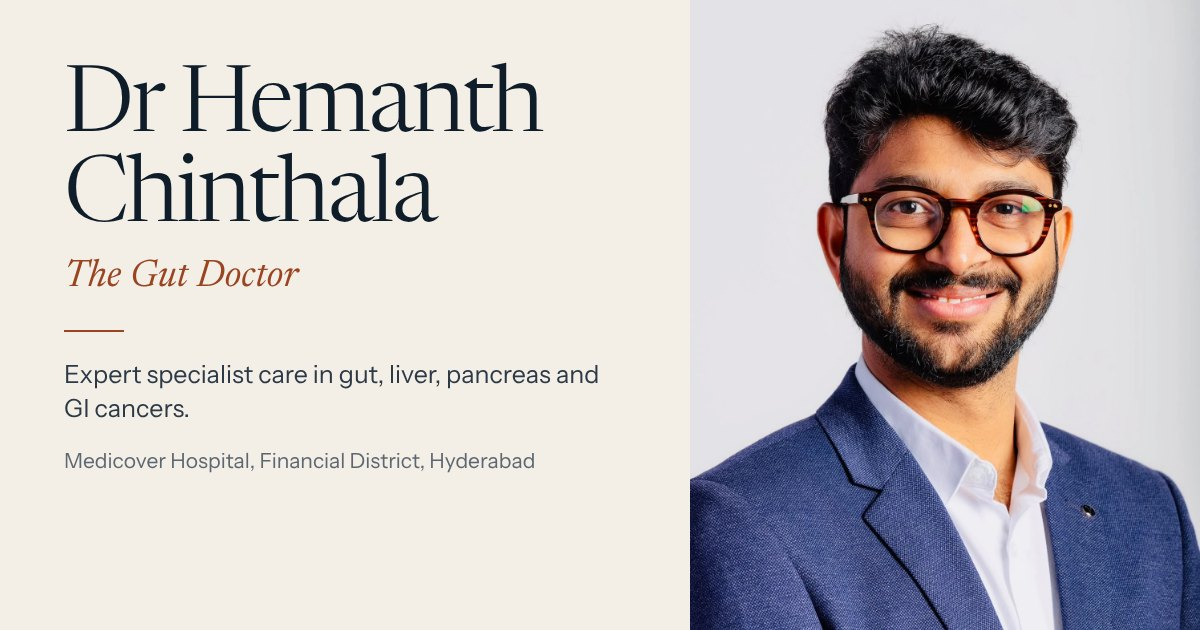
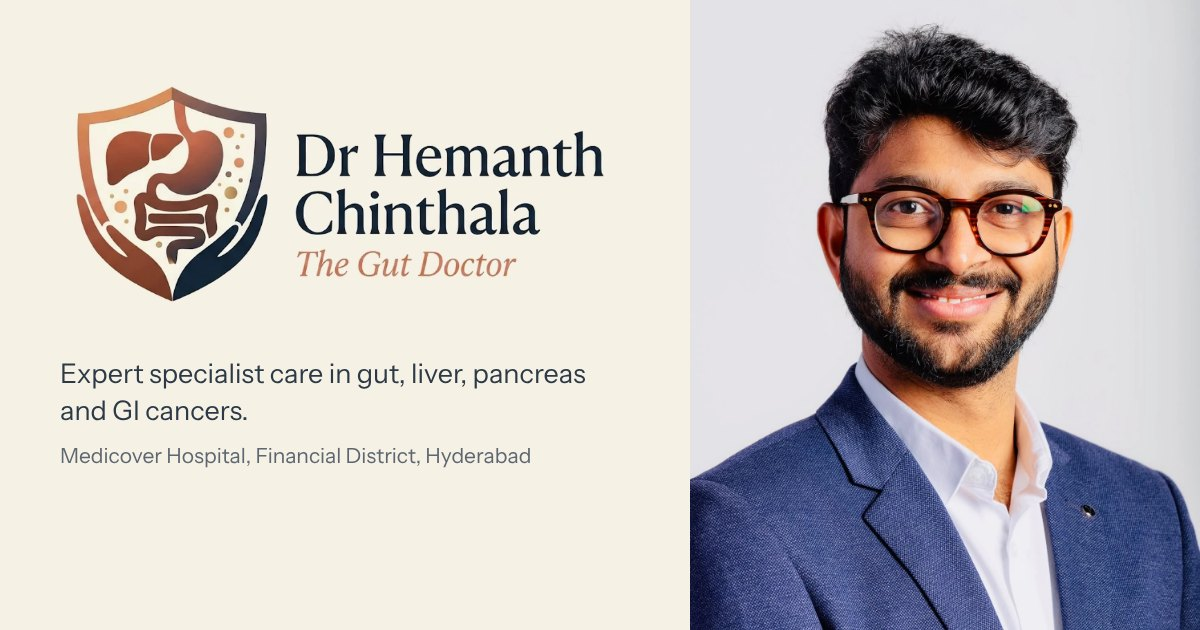
SEO markup, WhatsApp button, map, share card and new animations
- Build adds an absolute canonical URL and share image, FAQPage
  structured data from the FAQ, sitemap.xml and robots.txt.
- Floating WhatsApp button beside the booking dock (phones) or in the
  corner (desktop), hidden at the booking form.
- Location map that loads Google Maps only when asked.
- Share card rebuilt with the logo and portrait.
- Section headings rise word by word; warning-sign icons draw in, with
  a slow pulse on the same-day signs; a line and dot run through the
  first-visit steps. Step headings now align across the row.

Claude-Session: https://claude.ai/code/session_01YWb2kGA3E7CmJhSn1PJtSX

diff --git a/index.html b/index.html
@@ -664,47 +664,50 @@
         <p class="section__intro">Any one of these is a good reason to get checked. The ones marked "Same day" need prompt attention.</p>
         <ul class="signs__grid" role="list">
           <li class="sign">
-            
+            <span class="sign__ic" aria-hidden="true"><svg viewBox="0 0 24 24" focusable="false"><path pathLength="1" d="M12 3c1 3.5 4.5 5 4.5 9.2A4.5 4.5 0 0 1 12 17a4.5 4.5 0 0 1-4.5-4.8c0-2 1.2-3.2 2-4.2.3 1.6 1.1 2.4 2 2.6C11 8.6 11 5.8 12 3Z"/><path pathLength="1" d="M8 21h8"/></svg></span>
             <p class="sign__title">Heartburn or acidity more than twice a week</p>
             <p class="sign__note">Especially if antacids no longer help, or it wakes you at night.</p>
           </li>
           <li class="sign">
-            
+            <span class="sign__ic" aria-hidden="true"><svg viewBox="0 0 24 24" focusable="false"><path pathLength="1" d="M9 3v7a3 3 0 0 0 6 0V3"/><path pathLength="1" d="M12 14v7"/><path pathLength="1" d="M9 18l3 3 3-3"/></svg></span>
             <p class="sign__title">Difficulty or pain when swallowing</p>
             <p class="sign__note">Food that sticks on the way down should always be checked.</p>
           </li>
           <li class="sign">
-            
+            <span class="sign__ic" aria-hidden="true"><svg viewBox="0 0 24 24" focusable="false"><path pathLength="1" d="M12 4a8 8 0 1 1 0 16 8 8 0 0 1 0-16Z"/><path pathLength="1" d="M7.5 12c1.5-1.6 3-1.6 4.5 0s3 1.6 4.5 0"/></svg></span>
             <p class="sign__title">Bloating, pain or a change in bowel habit</p>
             <p class="sign__note">If it lasts more than a few weeks, or simple changes do not settle it.</p>
           </li>
           <li class="sign sign--urgent">
+            <span class="sign__ic" aria-hidden="true"><svg viewBox="0 0 24 24" focusable="false"><path pathLength="1" d="M12 3s6 6.6 6 11a6 6 0 0 1-12 0c0-4.4 6-11 6-11Z"/></svg></span>
             <p class="sign__flag">Same day</p>
             <p class="sign__title">Blood in the stool, or black, tar-like stools</p>
             <p class="sign__note">Black stools can mean bleeding higher up in the gut.</p>
           </li>
           <li class="sign sign--urgent">
+            <span class="sign__ic" aria-hidden="true"><svg viewBox="0 0 24 24" focusable="false"><path pathLength="1" d="M5 10h11v3a5 5 0 0 1-5 5h-1a5 5 0 0 1-5-5v-3Z"/><path pathLength="1" d="M16 11h1.5a2.5 2.5 0 0 1 0 5H16"/><path pathLength="1" d="M10.5 3.5s-1.5 1.7-1.5 2.8a1.5 1.5 0 0 0 3 0c0-1.1-1.5-2.8-1.5-2.8Z"/><path pathLength="1" d="M6 21h10"/></svg></span>
             <p class="sign__flag">Same day</p>
             <p class="sign__title">Vomiting blood or material like coffee grounds</p>
             <p class="sign__note">This needs medical attention the same day.</p>
           </li>
           <li class="sign sign--urgent">
+            <span class="sign__ic" aria-hidden="true"><svg viewBox="0 0 24 24" focusable="false"><path pathLength="1" d="M2.5 12S6 6 12 6s9.5 6 9.5 6-3.5 6-9.5 6S2.5 12 2.5 12Z"/><path pathLength="1" d="M12 9a3 3 0 1 1 0 6 3 3 0 0 1 0-6Z"/></svg></span>
             <p class="sign__flag">Same day</p>
             <p class="sign__title">Yellowing of the eyes or skin</p>
             <p class="sign__note">Jaundice can come from a liver problem or a blocked bile duct.</p>
           </li>
           <li class="sign">
-            
+            <span class="sign__ic" aria-hidden="true"><svg viewBox="0 0 24 24" focusable="false"><path pathLength="1" d="M5 5h14a1 1 0 0 1 1 1v12a1 1 0 0 1-1 1H5a1 1 0 0 1-1-1V6a1 1 0 0 1 1-1Z"/><path pathLength="1" d="M8.5 11a4 4 0 0 1 7 0"/><path pathLength="1" d="M12 11l1.6-2.2"/></svg></span>
             <p class="sign__title">Weight loss or poor appetite without a reason</p>
             <p class="sign__note">Unplanned weight loss should be explained.</p>
           </li>
           <li class="sign">
-            
+            <span class="sign__ic" aria-hidden="true"><svg viewBox="0 0 24 24" focusable="false"><path pathLength="1" d="M12 3s6 6.6 6 11a6 6 0 0 1-12 0c0-4.4 6-11 6-11Z"/><path pathLength="1" d="M9.5 14.5h5"/></svg></span>
             <p class="sign__title">Iron-deficiency anaemia with no clear cause</p>
             <p class="sign__note">Slow bleeding in the gut is a common cause that people do not notice.</p>
           </li>
           <li class="sign">
-            
+            <span class="sign__ic" aria-hidden="true"><svg viewBox="0 0 24 24" focusable="false"><path pathLength="1" d="M9 5a3 3 0 1 1 0 6 3 3 0 0 1 0-6Z"/><path pathLength="1" d="M3.5 20a5.5 5.5 0 0 1 11 0"/><path pathLength="1" d="M17 7.5a2.4 2.4 0 1 1 0 4.8 2.4 2.4 0 0 1 0-4.8Z"/><path pathLength="1" d="M15.2 15a4.5 4.5 0 0 1 5.8 4.3"/></svg></span>
             <p class="sign__title">New symptoms after 50, or a family history of bowel or stomach cancer</p>
             <p class="sign__note">Screening may be advised.</p>
           </li>
@@ -716,23 +719,27 @@
     <section class="visit section" aria-labelledby="visit-h">
       <div class="wrap">
         <h2 id="visit-h" class="h-section">Your first visit</h2>
-        <ol class="steps" role="list">
+        <ol class="steps" role="list" data-steps>
           <li class="step">
+            <span class="step__bar" aria-hidden="true"><i></i><b></b></span>
             <span class="step__no data">1</span>
             <h3 class="h-small">What to bring</h3>
             <p>Earlier endoscopy or colonoscopy reports, scans and their CDs, recent blood tests, and a list of everything you take, including supplements.</p>
           </li>
           <li class="step">
+            <span class="step__bar" aria-hidden="true"><i></i><b></b></span>
             <span class="step__no data">2</span>
             <h3 class="h-small">The consultation</h3>
             <p>He goes through your symptoms, history and reports with you, then examines you. You can speak in English, Telugu, Hindi or Tamil.</p>
           </li>
           <li class="step">
+            <span class="step__bar" aria-hidden="true"><i></i><b></b></span>
             <span class="step__no data">3</span>
             <h3 class="h-small">Tests, if you need them</h3>
             <p>If you need a procedure, you will be told why, what it involves and how to prepare, including any fasting or bowel preparation.</p>
           </li>
           <li class="step">
+            <span class="step__bar" aria-hidden="true"><i></i><b></b></span>
             <span class="step__no data">4</span>
             <h3 class="h-small">A written plan</h3>
             <p>You leave with treatment, diet and lifestyle advice in writing, and a date for your follow-up.</p>
@@ -807,6 +814,14 @@
             <a class="link" href="https://www.google.com/maps/search/?api=1&amp;query=Medicover+Hospital+Financial+District+Nanakramguda+Hyderabad" target="_blank" rel="noopener">Get directions</a>
             <a class="link" href="https://www.medicoverhospitals.in/doctors/dr-hemanth-chinthala" target="_blank" rel="noopener">His Medicover profile</a>
           </p>
+
+          <figure class="map" data-map>
+            <div class="map__frame" data-map-frame>
+              <svg class="map__pin" viewBox="0 0 24 32" aria-hidden="true" focusable="false"><path d="M12 0C5.4 0 0 5.2 0 11.7 0 20.4 12 32 12 32s12-11.6 12-20.3C24 5.2 18.6 0 12 0Zm0 16.2a4.6 4.6 0 1 1 0-9.2 4.6 4.6 0 0 1 0 9.2Z"/></svg>
+              <button class="btn btn--light map__load" type="button" data-map-load>Show the hospital on a map</button>
+            </div>
+            <figcaption class="map__cap">Medicover Hospital, Financial District. The map is from Google and loads only when you ask for it.</figcaption>
+          </figure>
         </div>
 
         <form class="form" data-form novalidate>
@@ -872,5 +887,6 @@
   </footer>
 
   <a class="dock" href="#book" data-dock>Book a consultation</a>
+  <a class="wa" href="https://wa.me/917087222235?text=Hello%2C%20I%20would%20like%20to%20book%20a%20consultation%20with%20Dr%20Hemanth%20Chinthala." target="_blank" rel="noopener" aria-label="Chat on WhatsApp" data-wa><svg viewBox="0 0 32 32" aria-hidden="true" focusable="false"><path fill="currentColor" d="M16.04 3C9 3 3.3 8.66 3.3 15.65c0 2.23.59 4.41 1.71 6.33L3.2 28.8l7.03-1.83a12.8 12.8 0 0 0 5.8 1.39h.01c7.03 0 12.76-5.66 12.76-12.65C28.8 8.66 23.07 3 16.04 3Zm0 23.2h-.01a10.6 10.6 0 0 1-5.39-1.47l-.39-.23-4.17 1.09 1.11-4.04-.25-.41a10.42 10.42 0 0 1-1.62-5.6c0-5.8 4.75-10.52 10.6-10.52 2.83 0 5.49 1.1 7.49 3.09a10.43 10.43 0 0 1 3.1 7.44c0 5.81-4.75 10.53-10.47 10.53Zm5.8-7.87c-.32-.16-1.88-.92-2.17-1.03-.29-.1-.5-.16-.71.16-.21.31-.82 1.03-1 1.24-.19.21-.37.24-.69.08-.32-.16-1.34-.49-2.56-1.57a9.54 9.54 0 0 1-1.77-2.19c-.18-.32-.02-.49.14-.65.14-.14.32-.37.48-.55.16-.18.21-.31.32-.52.1-.21.05-.4-.03-.55-.08-.16-.71-1.71-.98-2.34-.26-.62-.52-.53-.71-.54h-.61c-.21 0-.55.08-.84.39-.29.31-1.1 1.07-1.1 2.62 0 1.54 1.13 3.04 1.29 3.25.16.21 2.22 3.37 5.38 4.72.75.32 1.34.52 1.8.66.76.24 1.44.2 1.99.12.61-.09 1.88-.76 2.14-1.5.27-.74.27-1.37.19-1.5-.08-.13-.29-.21-.61-.37Z"/></svg></a>
 </body>
 </html>

diff --git a/src/styles.css b/src/styles.css
@@ -54,6 +54,8 @@
   --night-rule-strong: rgba(233, 227, 215, 0.3);
   /* states */
   --error: #b3261e;
+  --whatsapp: #1fa855; /* WhatsApp green, darkened for contrast with white */
+  --whatsapp-dark: #188a45;
   --shadow: rgba(15, 29, 43, 0.5);
   --shadow-soft: rgba(15, 29, 43, 0.18);
   --shadow-tight: rgba(15, 29, 43, 0.25);
@@ -81,7 +83,8 @@ html {
   scrollbar-color: var(--ink-3) var(--paper-2);
 }
 html:not(.lenis) { scroll-behavior: smooth; }
-@media (prefers-reduced-motion: reduce) { html:not(.lenis) { scroll-behavior: auto; } }
+@media (prefers-reduced-motion: reduce) {
+  .sign--urgent .sign__ic::after { animation: none; opacity: 0; } html:not(.lenis) { scroll-behavior: auto; } }
 body {
   margin: 0;
   background: var(--paper);
@@ -158,6 +161,9 @@ abbr { text-decoration: none; }
 .btn:active::before { transform: scaleY(1); }
 .btn--small { height: 40px; padding: 0 16px; font-size: 14px; }
 .btn--full { width: 100%; }
+.btn--light { background: var(--paper); color: var(--ink); }
+@media (hover: hover) { .btn--light:hover { color: var(--paper); } }
+.btn--light:focus-visible { outline: 3px solid var(--night-accent); outline-offset: 3px; }
 
 .link {
   font-size: 15.5px; font-weight: 500;
@@ -472,7 +478,13 @@ abbr { text-decoration: none; }
 .signs { border-top: 1px solid var(--rule); }
 .signs__grid { display: grid; grid-template-columns: minmax(0, 1fr); border-top: 1px solid var(--rule-strong); }
 .sign { padding: 22px 0 24px; border-bottom: 1px solid var(--rule); }
-.sign__flag { display: inline-block; margin-bottom: 10px; padding: 3px 10px; font-size: 13.5px; font-weight: 600; color: var(--white-warm); background: var(--accent); border-radius: var(--radius); }
+.sign__ic { position: relative; display: inline-grid; vertical-align: top; place-items: center; width: 44px; height: 44px; margin-bottom: 14px; border-radius: 50%; color: var(--ink); background: var(--paper-2); }
+.sign__ic svg { width: 24px; height: 24px; fill: none; stroke: currentColor; stroke-width: 1.6; stroke-linecap: round; stroke-linejoin: round; }
+.sign--urgent .sign__ic { color: var(--white-warm); background: var(--accent); }
+/* The same-day signs pulse slowly, so they are noticed first. */
+.sign--urgent .sign__ic::after { content: ''; position: absolute; inset: 0; border-radius: 50%; border: 2px solid var(--accent); animation: sign-pulse 2.4s var(--ease-out) infinite; }
+@keyframes sign-pulse { 0% { transform: scale(1); opacity: .7; } 70%, 100% { transform: scale(1.7); opacity: 0; } }
+.sign__flag { display: inline-block; margin-left: 12px; vertical-align: 26px; margin-bottom: 10px; padding: 3px 10px; font-size: 13.5px; font-weight: 600; color: var(--white-warm); background: var(--accent); border-radius: var(--radius); }
 .sign__title { font-family: var(--serif); font-size: clamp(21px, 1.9vw, 26px); line-height: 1.22; font-weight: 400; letter-spacing: -0.01em; font-variation-settings: 'opsz' 28; }
 .sign__note { margin-top: 6px; color: var(--ink-2); font-size: 15.5px; max-width: 46ch; }
 @media (min-width: 760px) { .signs__grid { grid-template-columns: repeat(2, minmax(0, 1fr)); column-gap: 40px; } }
@@ -481,7 +493,13 @@ abbr { text-decoration: none; }
 /* ---------- first visit ---------- */
 .visit { border-top: 1px solid var(--rule); }
 .steps { display: grid; grid-template-columns: minmax(0, 1fr); }
-.step { border-top: 1px solid var(--rule-strong); padding: 20px 0 32px; display: grid; gap: 8px; }
+.step { position: relative; border-top: 1px solid var(--rule-strong); padding: 20px 0 32px; display: grid; gap: 8px; align-content: start; }
+/* Progress along the steps: a sienna line with a dot at its tip. */
+.step__bar { position: absolute; left: 0; right: 0; top: -1px; height: 2px; pointer-events: none; }
+.step__bar i { position: absolute; inset: 0; background: var(--accent); transform-origin: left; transform: scaleX(1); }
+.step__bar b { position: absolute; top: 50%; left: 100%; width: 10px; height: 10px; margin: -5px 0 0 -5px; border-radius: 50%; background: var(--accent); box-shadow: 0 0 0 4px var(--paper); opacity: 0; }
+.step__no { transition: transform .4s var(--ease-out); }
+.step.is-reached .step__no { transform: scale(1.15); transform-origin: left; }
 .step__no { font-family: var(--serif); font-size: 26px; line-height: 1; color: var(--accent); }
 .step p { color: var(--ink-2); font-size: 16px; text-wrap: pretty; }
 @media (min-width: 700px) { .steps { grid-template-columns: repeat(2, minmax(0, 1fr)); column-gap: 32px; } }
@@ -535,6 +553,17 @@ abbr { text-decoration: none; }
 .book__links { margin-top: 26px; display: flex; flex-wrap: wrap; gap: 14px 28px; }
 .book .link { text-decoration-color: var(--night-rule-strong); }
 .book .link:hover { color: var(--night-accent); }
+
+/* Location map: a placeholder until the visitor asks for the Google map. */
+.map { margin-top: 32px; }
+.map__frame { position: relative; aspect-ratio: 16 / 10; border-radius: var(--radius); overflow: hidden; display: grid; place-items: center; align-content: center; gap: 18px;
+  background-color: var(--night-2);
+  background-image: linear-gradient(var(--night-rule) 1px, transparent 1px), linear-gradient(90deg, var(--night-rule) 1px, transparent 1px),
+    linear-gradient(32deg, transparent 47%, var(--night-rule-strong) 47.5%, var(--night-rule-strong) 49%, transparent 49.5%);
+  background-size: 44px 44px, 44px 44px, 100% 100%; }
+.map__pin { width: 30px; height: 40px; fill: var(--night-accent); }
+.map__frame iframe { position: absolute; inset: 0; width: 100%; height: 100%; border: 0; }
+.map__cap { margin-top: 10px; font-size: 14px; color: var(--night-mute); }
 
 .form { background: var(--paper); color: var(--ink); padding: clamp(24px, 4vw, 44px); border-radius: var(--radius); align-self: start; }
 .form__head { font-family: var(--serif); font-size: clamp(26px, 2.6vw, 34px); font-weight: 380; letter-spacing: -0.015em; line-height: 1.1; }
@@ -594,6 +623,20 @@ abbr { text-decoration: none; }
 .dock.is-visible { transform: translateY(0); }
 @media (min-width: 640px) { .dock { display: none; } }
 
+/* WhatsApp: beside the booking dock on phones, in the corner on larger screens. */
+.wa {
+  position: fixed; right: 12px; bottom: calc(12px + env(safe-area-inset-bottom)); z-index: 41;
+  display: grid; place-items: center; width: 54px; height: 54px; border-radius: 50%;
+  background: var(--whatsapp); color: #fff; box-shadow: 0 10px 30px -10px var(--shadow);
+  transform: translateY(160%); transition: transform .5s var(--ease-out), background-color .2s;
+}
+.wa svg { width: 28px; height: 28px; }
+.wa.is-visible { transform: translateY(0); }
+.wa:hover { background: var(--whatsapp-dark); }
+.wa:focus-visible { outline: 3px solid var(--ink); outline-offset: 3px; }
+@media (max-width: 639px) { .dock { right: 76px; } }
+@media (min-width: 640px) { .wa { right: 24px; bottom: 24px; width: 58px; height: 58px; } }
+
 /* ==========================================================================
    Motion. Content is visible by default; these states apply only when the
    script is running and the visitor has not asked for reduced motion.
@@ -602,6 +645,8 @@ abbr { text-decoration: none; }
 .js:not(.no-motion) [data-hero-fade] { opacity: 0; transform: translateY(14px); }
 .js:not(.no-motion) .hero__frame { clip-path: inset(100% 0 0 0); }
 .js:not(.no-motion) .training__figure { clip-path: inset(0 0 100% 0); }
+.js:not(.no-motion) .step__bar i { transform: scaleX(0); }
+.js:not(.no-motion) .sign__ic path { stroke-dasharray: 1; stroke-dashoffset: 1; }
 .js:not(.no-motion) .tmap__leg { stroke-dasharray: 1; stroke-dashoffset: 1; }
 .js:not(.no-motion) .tmap__place, .js:not(.no-motion) .tmap__land { opacity: 0; }
 .js:not(.no-motion) [data-count] { opacity: 0; }

diff --git a/src/main.js b/src/main.js
@@ -398,6 +398,7 @@ function initMap() {
 function initNav() {
   const nav = $('[data-nav]');
   const dock = $('[data-dock]');
+  const wa = $('[data-wa]');
   const toggle = $('[data-menu-toggle]');
   const menu = $('[data-menu]');
 
@@ -415,7 +416,10 @@ function initNav() {
 
   let pastHero = false;
   let atBook = false;
-  const syncDock = () => dock.classList.toggle('is-visible', pastHero && !atBook);
+  const syncDock = () => {
+    dock.classList.toggle('is-visible', pastHero && !atBook);
+    wa?.classList.toggle('is-visible', pastHero && !atBook);
+  };
   ScrollTrigger.create({ trigger: '.hero', start: 'bottom 60%', onEnter: () => { pastHero = true; syncDock(); }, onLeaveBack: () => { pastHero = false; syncDock(); } });
   ScrollTrigger.create({ trigger: '#book', start: 'top bottom', end: 'bottom top', onToggle: (s) => { atBook = s.isActive; syncDock(); } });
 
@@ -455,6 +459,63 @@ function initFaq() {
 /* ------------------------------------------------------------------ *
  * Appointment request -> WhatsApp (nothing stored on this site)
  * ------------------------------------------------------------------ */
+/* Section headings rise word by word, like the main headline. */
+function initHeadings() {
+  if (reduceMotion) return;
+  $$('.h-section, .care__title, .book__title').forEach((h) => {
+    splitWords(h);
+    const words = $$('.w > span', h);
+    gsap.set(words, { yPercent: 105 });
+    gsap.to(words, { yPercent: 0, duration: 1, ease: 'expo.out', stagger: 0.045, scrollTrigger: { trigger: h, start: 'top 88%', once: true } });
+  });
+}
+
+/* Warning signs: each icon draws itself in as the list arrives. */
+function initSigns() {
+  if (reduceMotion) return;
+  $$('.sign').forEach((li, i) => {
+    gsap.to($$('.sign__ic path', li), { strokeDashoffset: 0, duration: 1.1, ease: 'power2.inOut', stagger: 0.12, delay: (i % 3) * 0.12,
+      scrollTrigger: { trigger: li, start: 'top 85%', once: true } });
+  });
+}
+
+/* First visit: a line with a dot runs through the four steps as you scroll. */
+function initSteps() {
+  const list = $('[data-steps]');
+  if (!list || reduceMotion) return;
+  const steps = $$('.step', list);
+  const tl = gsap.timeline({ scrollTrigger: { trigger: list, start: 'top 75%', end: 'bottom 55%', scrub: 0.6 } });
+  steps.forEach((st, i) => {
+    const fill = $('.step__bar i', st);
+    const dot = $('.step__bar b', st);
+    tl.set(dot, { opacity: 1, left: '0%' }, i)
+      .to(fill, { scaleX: 1, duration: 1, ease: 'none' }, i)
+      .to(dot, { left: '100%', duration: 1, ease: 'none' }, i)
+      .call(() => st.classList.add('is-reached'), null, i + 1)
+      .set(dot, { opacity: i === steps.length - 1 ? 1 : 0 }, i + 1);
+  });
+  // Scrolling back up un-reaches the steps again.
+  ScrollTrigger.create({ trigger: list, start: 'top 75%', end: 'bottom 55%',
+    onUpdate: (s) => steps.forEach((st, i) => st.classList.toggle('is-reached', s.progress * steps.length >= i + 1)) });
+}
+
+/* The Google map loads only when asked for, so it costs nothing until then. */
+function initMap2() {
+  const btn = $('[data-map-load]');
+  if (!btn) return;
+  btn.addEventListener('click', () => {
+    const frame = $('[data-map-frame]');
+    const f = document.createElement('iframe');
+    f.src = 'https://maps.google.com/maps?q=Medicover%20Hospitals%2C%20Financial%20District%2C%20Nanakramguda%2C%20Hyderabad&z=15&output=embed';
+    f.title = 'Map showing Medicover Hospital, Financial District, Hyderabad';
+    f.loading = 'lazy';
+    f.referrerPolicy = 'no-referrer-when-downgrade';
+    f.allowFullscreen = true;
+    frame.replaceChildren(f);
+    f.focus();
+  }, { once: true });
+}
+
 function initForm() {
   const form = $('[data-form]');
   const error = $('[data-form-error]');
@@ -508,7 +569,7 @@ function start() {
 // long enough to delay a tap. The pinned section is created before the
 // triggers that sit below it.
 const queue = [
-  initNav, initForm, initFaq,
+  initNav, initForm, initFaq, initMap2, initHeadings, initSigns, initSteps,
   () => $$('[data-year]').forEach((el) => (el.textContent = new Date().getFullYear())),
   initGut, initCare, initSectionOpen, initTraining, initMap, initCounters, initGlyphs, initStages,
 ];

diff --git a/vite.config.js b/vite.config.js
@@ -1,10 +1,27 @@
 import { defineConfig } from 'vite';
+import { resolve } from 'node:path';
+import { readdirSync, existsSync } from 'node:fs';
 
 // GitHub Pages serves the site from /<repo>/, so the workflow sets BASE_PATH.
 const base = process.env.BASE_PATH || '/';
+// The public address of the site, used for the canonical link, share image and
+// sitemap. Change SITE_URL in the workflow when the site moves to its own domain.
+const site = (process.env.SITE_URL || `https://venkatsai09.github.io${base}`).replace(/\/?$/, '/');
+
+// Every HTML page: the home page plus the condition and procedure pages.
+const pages = { main: resolve(__dirname, 'index.html') };
+for (const dir of ['conditions', 'procedures']) {
+  const d = resolve(__dirname, dir);
+  if (!existsSync(d)) continue;
+  for (const f of readdirSync(d)) if (f.endsWith('.html')) pages[`${dir}/${f.replace('.html', '')}`] = resolve(d, f);
+}
+
+const text = (s) => s.replace(/<[^>]+>/g, '').replace(/\s+/g, ' ').replace(/&nbsp;/g, ' ').replace(/&amp;/g, '&').trim();
+const pagePath = (file) => file.replace(/^.*?\/(?=(conditions|procedures)\/)/, '').replace(/^.*index\.html$/, '');
 
 export default defineConfig({
   base,
+  build: { rollupOptions: { input: pages } },
   plugins: [
     {
       // Vite rewrites most public-file URLs for `base`, but not every attribute
@@ -12,7 +29,39 @@ export default defineConfig({
       name: 'prefix-public-paths',
       transformIndexHtml: {
         order: 'post',
-        handler: (html) => (base === '/' ? html : html.replace(/(["\s,])\/(img|fonts|favicon\.svg)/g, `$1${base}$2`)),
+        handler: (html) => (base === '/' ? html : html.replace(/(["\s,])\/(img|fonts)\//g, `$1${base}$2/`)),
+      },
+    },
+    {
+      // Search engines and link previews: an absolute canonical address and
+      // share image, and FAQ structured data built from the page's own FAQ.
+      name: 'seo',
+      transformIndexHtml: {
+        order: 'post',
+        handler(html, ctx) {
+          const path = pagePath(ctx.filename.replace(/\\/g, '/'));
+          const url = site + path;
+          let head = `<link rel="canonical" href="${url}" />\n  <meta property="og:url" content="${url}" />\n`;
+          html = html.replace(/<meta property="og:image" content="[^"]*\/img\/([^"]+)" \/>/, `<meta property="og:image" content="${site}img/$1" />`);
+          const qa = [...html.matchAll(/<details class="qa">\s*<summary>([\s\S]*?)<\/summary>\s*<div class="qa__a">([\s\S]*?)<\/div>\s*<\/details>/g)];
+          if (qa.length) {
+            const faq = {
+              '@context': 'https://schema.org',
+              '@type': 'FAQPage',
+              mainEntity: qa.map(([, q, a]) => ({ '@type': 'Question', name: text(q), acceptedAnswer: { '@type': 'Answer', text: text(a) } })),
+            };
+            head += `  <script type="application/ld+json">${JSON.stringify(faq)}</script>\n`;
+          }
+          return html.replace('</head>', `  ${head}</head>`);
+        },
+      },
+      generateBundle() {
+        const urls = Object.keys(pages).map((k) => site + (k === 'main' ? '' : `${k}.html`)).sort();
+        const today = new Date().toISOString().slice(0, 10);
+        const xml = `<?xml version="1.0" encoding="UTF-8"?>\n<urlset xmlns="http://www.sitemaps.org/schemas/sitemap/0.9">\n${urls
+          .map((u) => `  <url><loc>${u}</loc><lastmod>${today}</lastmod></url>`).join('\n')}\n</urlset>\n`;
+        this.emitFile({ type: 'asset', fileName: 'sitemap.xml', source: xml });
+        this.emitFile({ type: 'asset', fileName: 'robots.txt', source: `User-agent: *\nAllow: /\n\nSitemap: ${site}sitemap.xml\n` });
       },
     },
   ],
